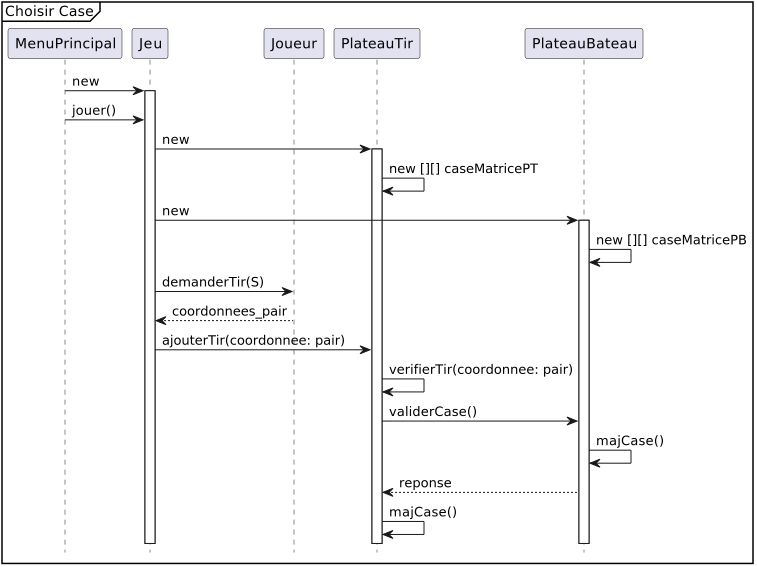
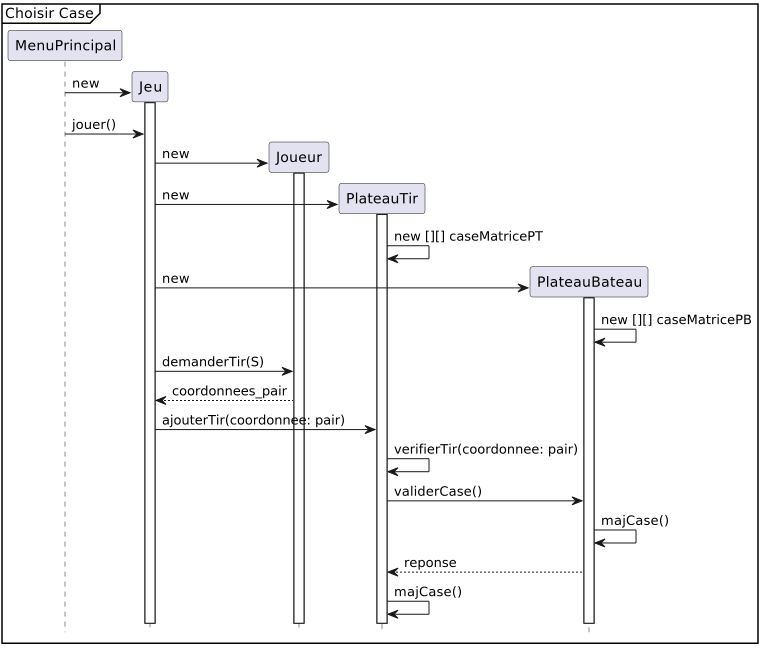
modif diagr seq choisir_case et ajout diagr seq creer_matriceCase

Changed region(s): [[0.0, 0.0, 1.0, 0.9594], [0.0, 0.9894, 1.0, 1.0]]

diff --git a/partie1.md b/partie1.md
@@ -148,6 +148,9 @@ Classe statique à <u>faible couplage</u>. Charge un fichier JSON et initialise 
 ## Choisir la case
 ![Diagramme de séquence pour visualiser la case](diagrammes_conception/images_diagrammes/choisir_case.png)<br/>
 
+## Creer matriceCase -- Extension de 'Choisir la case'
+![Diagramme de séquence pour visualiser la case](diagrammes_conception/images_diagrammes/creer_matriceCase.png)<br/>
+
 ## Jouer
 ...
 
